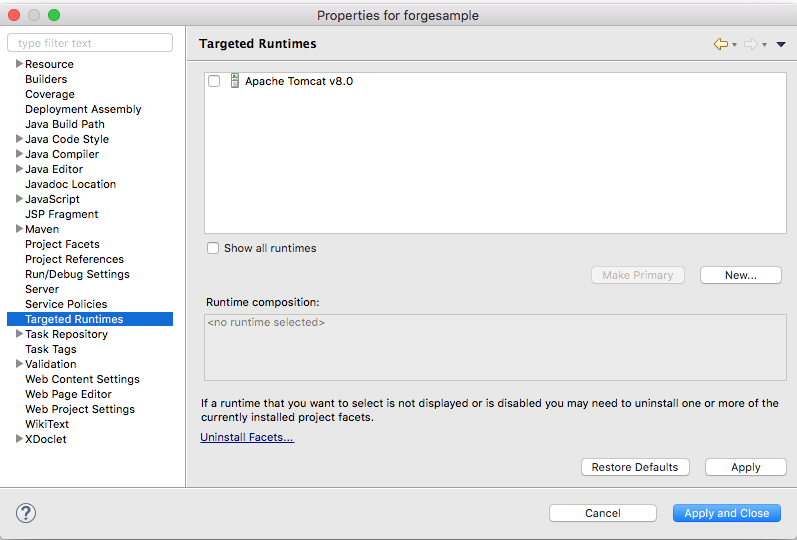
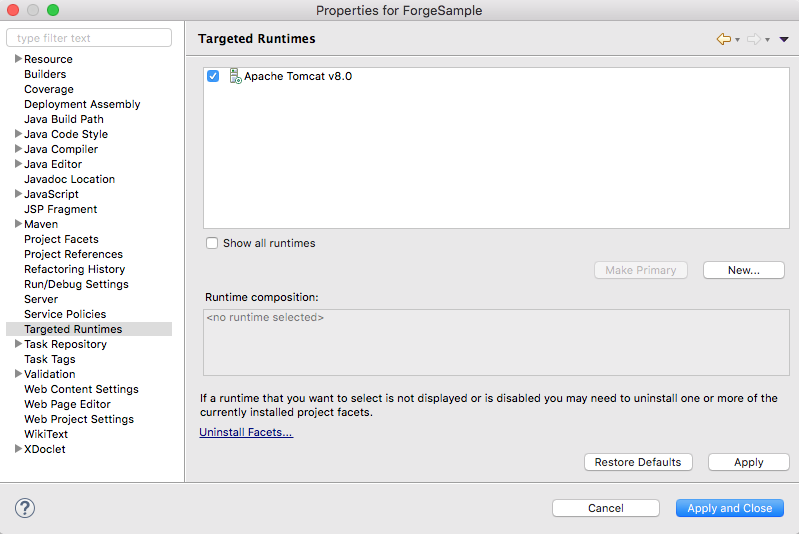
fixing many issues and misguidence of the tutorial for JAVA #14 #13 #10 #4 #11 #12

diff --git a/docs/datamanagement/oss/java.md b/docs/datamanagement/oss/java.md
@@ -6,15 +6,27 @@ At this section we actually need 3 features:
 2. List buckets & objects (files)
 3. Upload objects (files)
 
-## OSS.js
+## OSS.java
 
-Create a `/src/main/oss.java` file with the following content. This file handles creating bucket and listing buckets.
+Create a `/src/main/java/oss.java` file with the following content. This file handles creating bucket and listing buckets.
 
 ```java
+import java.io.*;
+
+import javax.servlet.ServletException;
+import javax.servlet.annotation.WebServlet;
+import javax.servlet.http.*;
+import javax.xml.bind.DatatypeConverter;
+
+import org.json.*;
+
+import com.autodesk.client.ApiException;
+import com.autodesk.client.ApiResponse;
+import com.autodesk.client.api.*;
+import com.autodesk.client.model.*;
+
 WebServlet({"/oss"})
 public class oss extends HttpServlet {
-
-
 
     public oss() {
     }
@@ -170,11 +182,31 @@ public class oss extends HttpServlet {
 
 As we plan to suppor the [jsTree](https://www.jstree.com/) library, our **GET oss/buckets** need to return handle the `id` querystring parameter and return buckets when `id=#` and objects for a given bucketKey passed as `id=bucketKey`.
 
-## OSSUploads.js
+## OSSUploads.java
 
 Create a `/src/main/ossuploads.java` file with the following content. This file handles uploading file. The workflow gets the file stream and uploads to Forge.
 
 ```java
+import java.io.*;
+import java.util.Iterator;
+import java.util.List;
+import java.util.regex.*;
+
+import javax.servlet.ServletException;
+import javax.servlet.annotation.WebServlet;
+import javax.servlet.http.HttpServlet;
+import javax.servlet.http.HttpServletRequest;
+import javax.servlet.http.HttpServletResponse;
+
+import org.apache.commons.fileupload.FileItem;
+import org.apache.commons.fileupload.disk.DiskFileItemFactory;
+import org.apache.commons.fileupload.servlet.ServletFileUpload;
+
+import com.autodesk.client.ApiException;
+import com.autodesk.client.ApiResponse;
+import com.autodesk.client.api.ObjectsApi;
+import com.autodesk.client.model.ObjectDetails;
+
 @WebServlet({"/ossuploads"})
 public class ossuploads  extends HttpServlet {
 
@@ -291,30 +323,30 @@ public class ossuploads  extends HttpServlet {
 Explictly expose the endpoint in `/web/WEB-INF/web.xml`:
 ```xml
 
-<servlet>
-    <servlet-name>oss</servlet-name>
-    <servlet-class>oss</servlet-class>
-</servlet>
+    <servlet>
+            <servlet-name>oss</servlet-name>
+            <servlet-class>oss</servlet-class>
+    </servlet>
 
-<servlet-mapping>
-    <servlet-name>oss</servlet-name>
-    <url-pattern>/api/forge/oss/buckets</url-pattern>
-</servlet-mapping>
+    <servlet-mapping>
+            <servlet-name>oss</servlet-name>
+            <url-pattern>/api/forge/oss/buckets</url-pattern>
+    </servlet-mapping>
 
-<servlet>
-    <servlet-name>ossuploads</servlet-name>
-    <servlet-class>ossuploads</servlet-class>
-</servlet>
+    <servlet>
+            <servlet-name>ossuploads</servlet-name>
+            <servlet-class>ossuploads</servlet-class>
+    </servlet>
 
-<servlet-mapping>
-    <servlet-name>ossuploads</servlet-name>
-    <url-pattern>/api/forge/oss/objects</url-pattern>
-</servlet-mapping>
+    <servlet-mapping>
+            <servlet-name>ossuploads</servlet-name>
+            <url-pattern>/api/forge/oss/objects</url-pattern>
+    </servlet-mapping>
 ```
 
  
 
-Note how we reuse the `/src/main/oauth.java` file to call `.getTokenInternal()` on all functions. 
+Note how we reuse the `/src/main/java/oauth.java` file to call `.getTokenInternal()` on all functions. 
 
 !> Upload a file from the client (browser) directly to Autodesk Forge is possible, but requires giving the client a **write-enabled** access token, which is **NOT SECURE**.
 

diff --git a/docs/modelderivative/translate/java.md b/docs/modelderivative/translate/java.md
@@ -2,11 +2,28 @@
 
 To translate a file we just need one endpoint.
 
-## ModelDerivative.js
+## ModelDerivative.java
 
 Create a `/src/main/java/modelderivative.java` file with the following content:
 
 ```java
+import java.io.BufferedReader;
+import java.io.IOException;
+import java.util.Arrays;
+
+import javax.servlet.ServletException;
+import javax.servlet.annotation.WebServlet;
+import javax.servlet.http.HttpServlet;
+import javax.servlet.http.HttpServletRequest;
+import javax.servlet.http.HttpServletResponse;
+
+import org.json.JSONObject;
+
+import com.autodesk.client.ApiException;
+import com.autodesk.client.ApiResponse;
+import com.autodesk.client.api.*;
+import com.autodesk.client.model.*;
+
 @WebServlet({"/modelderivative"})
 public class modelderivative  extends HttpServlet {
 
@@ -94,6 +111,58 @@ Explictly expose the endpoint in `/web/WEB-INF/web.xml`:
 
 
 The **jobs** endpoint receives the **bucketKey** and **objectName** and post the [translation job](https://developer.autodesk.com/en/docs/model-derivative/v2/reference/http/job-POST/) to extract 2D & 3D views of the model. 
+
+
+At the end your `/web/WEB-INF/web.xml` should look like this:
+
+```xml
+<?xml version="1.0" encoding="UTF-8"?>
+<web-app xmlns="http://xmlns.jcp.org/xml/ns/javaee"
+         xmlns:xsi="http://www.w3.org/2001/XMLSchema-instance"
+         xsi:schemaLocation="http://xmlns.jcp.org/xml/ns/javaee http://xmlns.jcp.org/xml/ns/javaee/web-app_3_1.xsd"
+         version="3.1">
+         
+    <servlet>
+        <servlet-name>oauthtoken</servlet-name>
+        <servlet-class>oauthtoken</servlet-class>
+    </servlet>
+
+    <servlet-mapping>
+        <servlet-name>oauthtoken</servlet-name>
+        <url-pattern>/api/forge/oauth/token</url-pattern>
+    </servlet-mapping>
+    
+    <servlet>
+            <servlet-name>oss</servlet-name>
+            <servlet-class>oss</servlet-class>
+    </servlet>
+
+    <servlet-mapping>
+            <servlet-name>oss</servlet-name>
+            <url-pattern>/api/forge/oss/buckets</url-pattern>
+    </servlet-mapping>
+
+    <servlet>
+            <servlet-name>ossuploads</servlet-name>
+            <servlet-class>ossuploads</servlet-class>
+    </servlet>
+
+    <servlet-mapping>
+            <servlet-name>ossuploads</servlet-name>
+            <url-pattern>/api/forge/oss/objects</url-pattern>
+    </servlet-mapping>
+    
+    <servlet>
+            <servlet-name>modelderivative</servlet-name>
+            <servlet-class>modelderivative</servlet-class>
+    </servlet>
+
+    <servlet-mapping>
+            <servlet-name>modelderivative</servlet-name>
+            <url-pattern>/api/forge/modelderivative/jobs</url-pattern>
+    </servlet-mapping>
+</web-app>
+```
 
 To summarize, at this point your **JAVA** project should be like:
 

diff --git a/docs/environment/setup/java.md b/docs/environment/setup/java.md
@@ -13,21 +13,7 @@ Fill out below details and click Finish. This step creates Maven Project in your
 
 ![](_media/java/Eclipse_new_maven_project_name.png) 
 
-If you see error “The superclass “javax.servlet.http.HttpServlet” was not found on the Java Build Path index.jsp /forgesample/src/main/webapp” then add below maven dependency.
-
-![](_media/java/Eclipse_httpservelt_error_console.png) 
-
-
-```xml
-<dependency>
-    <groupId>javax.servlet</groupId>
-    <artifactId>javax.servlet-api</artifactId>
-    <version>3.1.0</version>
-</dependency>
-
-```
-
-OR add Apache Tomcat to your Targeted Runtimes.
+If you see error “The superclass “javax.servlet.http.HttpServlet” was not found on the Java Build Path index.jsp `/forgesample/src/main/webapp` add Apache Tomcat to your Targeted Runtimes. You get there by going to the project properties and then Targeted Runtimes, check the box as indicated below.
 
 ![](_media/java/Eclipse_apache_tomcat_targeted_runtime.png) 
 
@@ -49,19 +35,22 @@ Deploy Application on Apache Tomcat Server.
 
 Steps:
 
-- Right click on Server -> Add and Remove -> Select CrunchifyMavenTutorial -> Click Finish.
-- Start tomcat server.
 
-Visit http://localhost:8080/forgesample/index.jsp to see your result.
+![](_media/java/Eclipse_run_as_server.png) 
 
-To make sure it is your index.jsp, go and change the text of Hello World! to Hello Forge!
+![](_media/java/Eclipse_setup_server.png) 
+
+
+
+When done, click Finish. Eclipse will run a local page in your IDE showing you Hello World! or you can always visit http://localhost:8080/forgesample/index.jsp to see your result.
+
+To make sure it is your index.jsp the one running, go src/main/webapp/index.jsp and change the text from Hello World! to Hello Forge!
 
 ![](_media/java/Eclipse_hello_forge.png) 
 
-You are all set, your Server is running succesfully now.
+You are all set, your Server is running succesfully now. :)
 
-
-
+## Setup Pom.xml
 
 
 Change [groupId] to the string that indicates your role such as **com.mycompany**. And input the configurations to the file:

diff --git a/docs/oauth/2legged/java.md b/docs/oauth/2legged/java.md
@@ -4,7 +4,7 @@ For a basic *OAuth* implementation we need 2 files.
 
 ## oauth.java
 
-Create a `/src/main/oauth.java` file. This file takes care of creating the express router to expose the endpoint. 
+Create a `/src/main/java/oauth.java` file. This file takes care of creating the express router to expose the endpoint. 
 
 ```java
 public class oauth  {
@@ -60,7 +60,7 @@ public class oauth  {
 
 ## oauthtoken.java
 
-Now create a `/src/main/oauthtoken.java` file that will actually request the access token from Forge. This will be reused on other parts of this tutorial.
+Now create a `/src/main/java/oauthtoken.java` file that will actually request the access token from Forge. This will be reused on other parts of this tutorial.
 
 ```java
 @WebServlet({"/oauthtoken"})
@@ -84,7 +84,7 @@ public class oauthtoken extends HttpServlet {
         try{
             token = oauth.getTokenPublic();
             obj.put("access_token", token);
-            obj.put("expires_in", "dummy");
+            obj.put("expires_in", 3500);
             out.print(obj);
         }
         catch (Exception var2) {
@@ -101,10 +101,10 @@ public class oauthtoken extends HttpServlet {
 ```
 Add annotation to make the class `oauthtoken` as web service by [WebServlet](http://blog.caucho.com/2009/10/06/servlet-30-tutorial-weblistener-webservlet-webfilter-and-webinitparam/)
 
-Explictly expose the endpoint in `/web/WEB-INF/web.xml`:
+Explictly expose the endpoint in `src/webapp/WEB-INF/web.xml`:
 
 ```xml
-  <servlet>
+    <servlet>
         <servlet-name>oauthtoken</servlet-name>
         <servlet-class>oauthtoken</servlet-class>
     </servlet>

diff --git a/docs/viewer/viewer.md b/docs/viewer/viewer.md
@@ -80,7 +80,7 @@ Create a **index.html** file with:
           <h4 class="modal-title" id="myModalLabel">Create new bucket</h4>
         </div>
         <div class="modal-body">
-          <input type="text" id="newBucketKey" class="form-control"> For demonstration purpouses, objects (files) are 
+          <input type="text" id="newBucketKey" class="form-control"> For demonstration purposes, objects (files) are 
           NOT automatically translated. After you upload, right click on
           the object and select "Translate".
         </div>
@@ -324,7 +324,7 @@ function onDocumentLoadSuccess(doc) {
     return;
   }
 
-  // Choose any of the avialble viewables
+  // Choose any of the available viewables
   viewerApp.selectItem(viewables[0].data, onItemLoadSuccess, onItemLoadFail);
 }
 

diff --git a/docs/viewer/java.md b/docs/viewer/java.md
@@ -1,6 +1,6 @@
-# Client-side files (.NET)
+# Client-side files (JAVA)
 
-Our JAVA server is configured to serve files from root `/forgesample` but we want to change it to serve from `/` folder. Let's fix that with the following steps:
+Our JAVA server is configured to serve files from `/forgesample` but we want to change it to serve from `/` folder. Let's fix that with the following steps:
 
 Setting the path to nothing in the Eclipse web modules edit dialog enabled me to access the project without any path component in the URL (i.e. ROOT)
 
